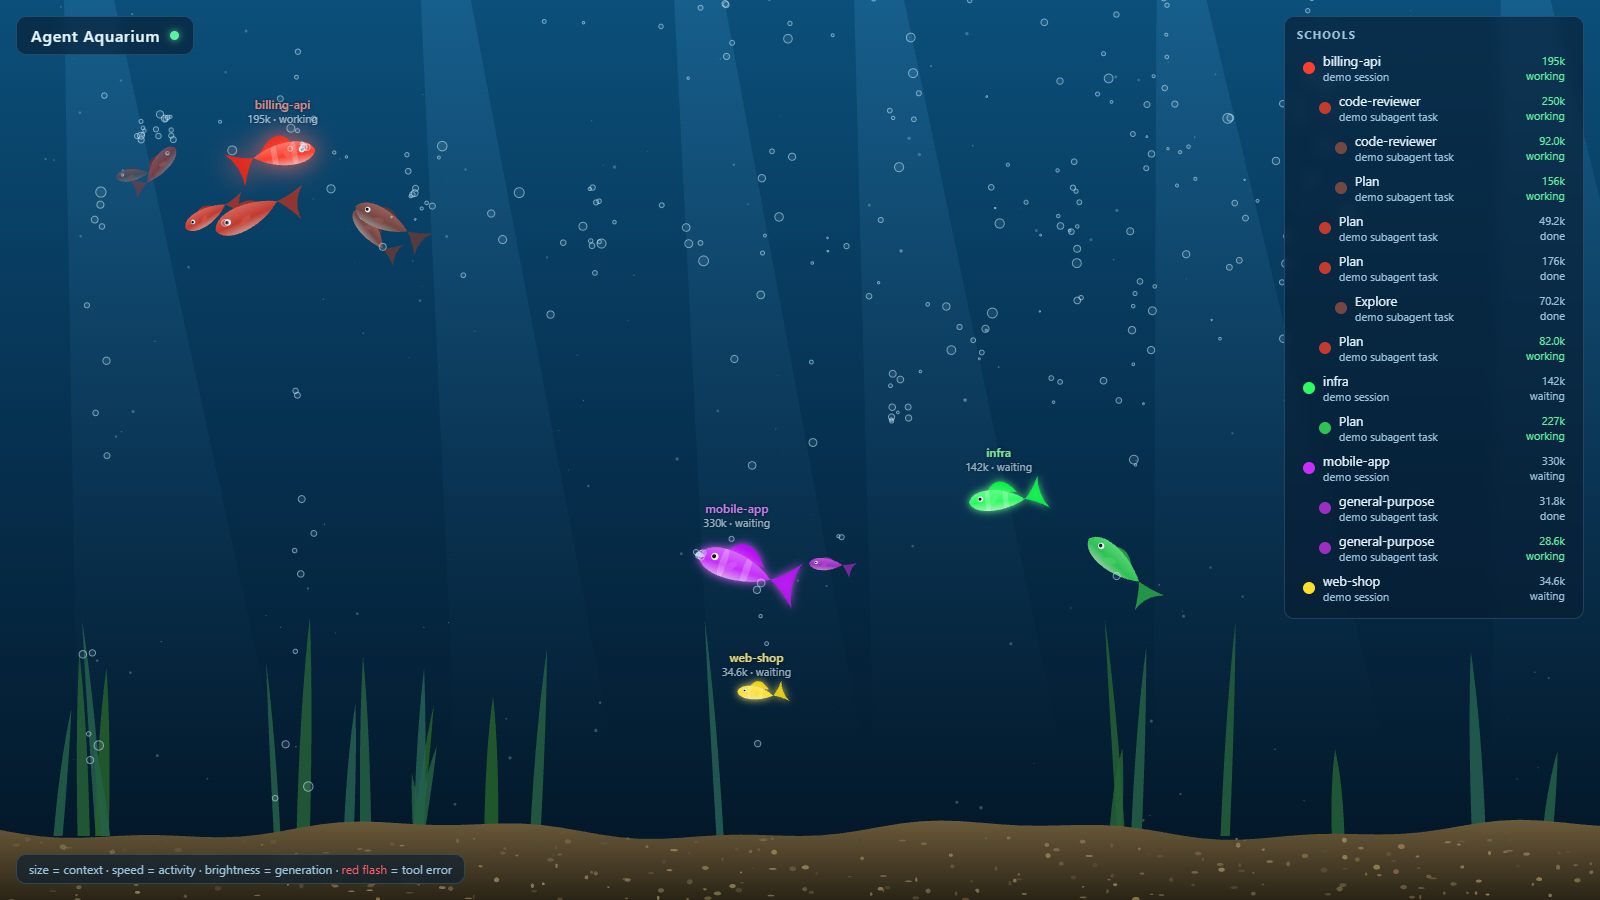
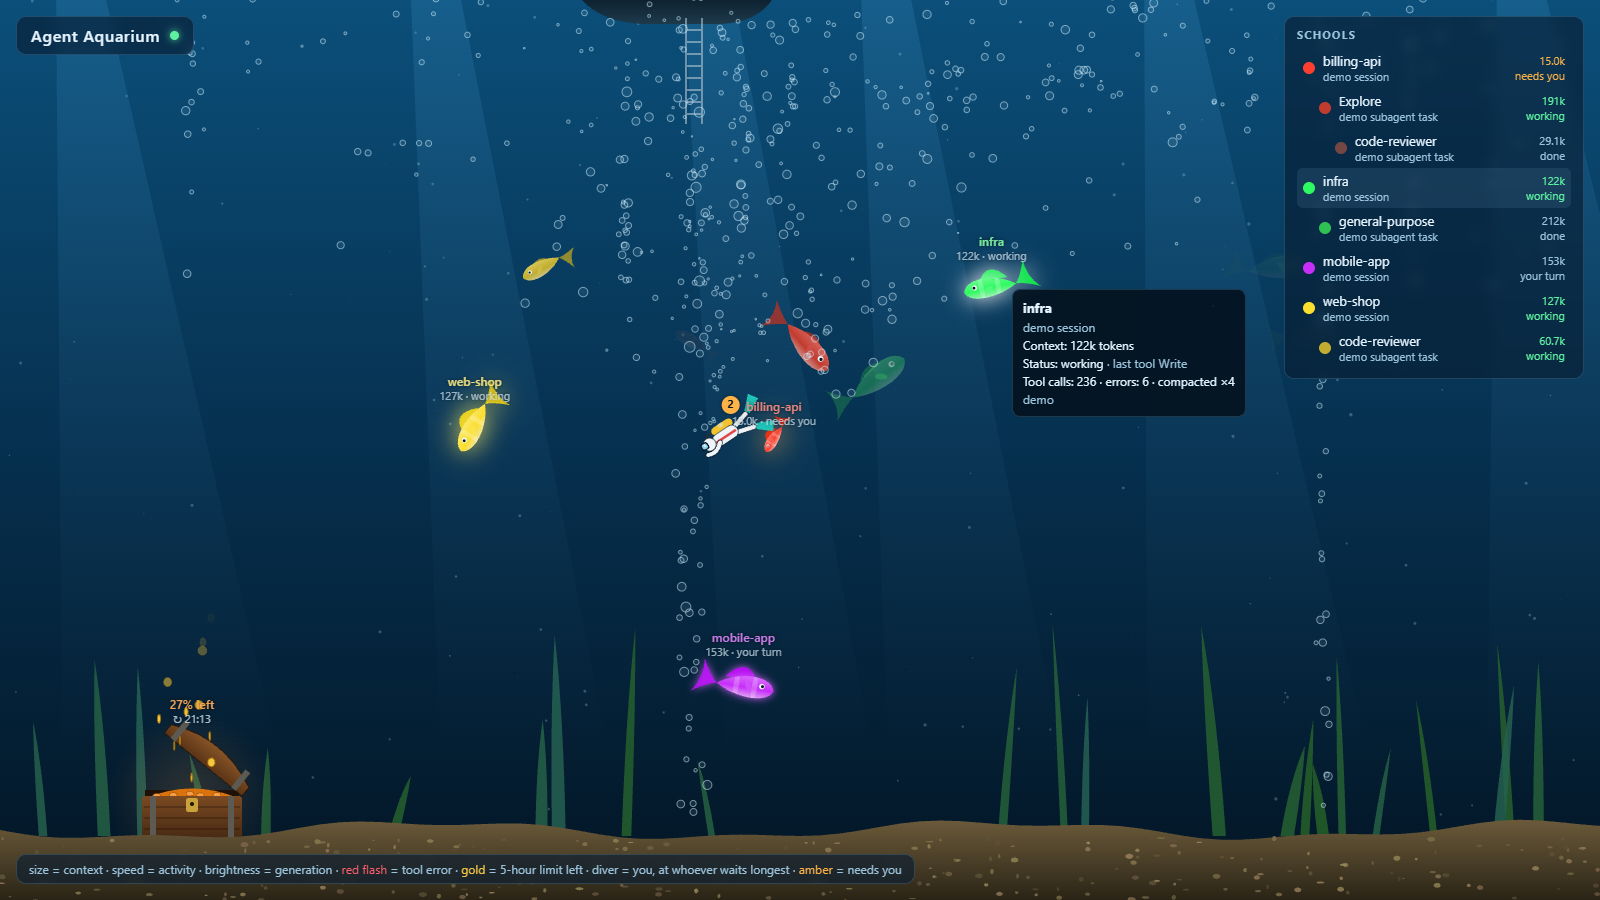
Docs: new screenshot and demo GIF, README caught up with the code
The README now covers hovering (tooltip, Schools row and fish lighting each
other up), the missing settings and their defaults, the endpoints, the
live-session registry and plugin hook in the diagram, and the classes the
architecture section left out. The empty-tank hint no longer speaks of
transcripts, and the LookBack comment says it is a fallback.

diff --git a/src/AgentAquarium/wwwroot/index.html b/src/AgentAquarium/wwwroot/index.html
@@ -33,8 +33,7 @@
     <div id="empty" class="empty" hidden>
       <p>The tank is empty.</p>
       <p class="hint">
-        No Claude Code session has written a transcript recently.<br />Start one, or run with the
-        <code>demo</code> launch profile.
+        No running Claude Code session found.<br />Start one, or run with the <code>demo</code> launch profile.
       </p>
     </div>
 

diff --git a/src/AgentAquarium/Sources/ClaudeCode/ClaudeCodeSource.cs b/src/AgentAquarium/Sources/ClaudeCode/ClaudeCodeSource.cs
@@ -13,7 +13,10 @@ public sealed class ClaudeCodeOptions
 
     public TimeSpan PollInterval { get; set; } = TimeSpan.FromSeconds(1);
 
-    /// <summary>Only sessions written to within this window are picked up.</summary>
+    /// <summary>
+    /// Fallback when the live-session registry is missing (older Claude Code): sessions whose
+    /// transcript changed within this window are shown instead.
+    /// </summary>
     public TimeSpan LookBack { get; set; } = TimeSpan.FromMinutes(30);
 
     /// <summary>

diff --git a/README.md b/README.md
@@ -2,7 +2,7 @@
 
 A live aquarium of your AI coding agents. Each session is a school of fish: the parent leads, its subagents swim with it.
 
-![Four demo sessions: the red school shows a parent with its subagents and their own, duller subagents](docs/screenshot.png)
+![The demo tank: fish swimming, the diver waiting at the session that needs you, and a hovered fish with its tooltip and highlighted row](docs/demo.gif)
 
 | Signal | Fish |
 |---|---|
@@ -19,11 +19,15 @@ The treasure chest on the sand is your plan's **5-hour limit**: the gold is what
 
 The diver is **you**. It swims to whichever agent has waited on you longest, agents blocked mid-turn before ones that merely finished, and climbs back up the boat's ladder when nobody waits. The badge over its head counts who is waiting, amber when one of them is blocked; hover it for the list with how long each has waited. "Blocked" comes from Claude Code's live-session registry (`status: "waiting"`, interactive CLI only) and, for SDK hosts such as T3 Code, from an `AskUserQuestion` or `ExitPlanMode` still unanswered in the transcript. A permission prompt in an SDK host leaves no trace in either: install the plugin below to see those too. Without it, such a session shows as working until it stalls.
 
+Hover a fish for its context, status, last tool, tool calls, errors and compactions. The **Schools** list on the right mirrors the tank: hovering a row lights up its fish, and hovering a fish lights up its row.
+
+![Demo sessions: the diver at billing-api, which needs you, the chest at 27% left, and the hovered infra fish with its tooltip and highlighted row](docs/screenshot.png)
+
 ## Run
 
 ```bash
 dotnet run --project src/AgentAquarium --launch-profile live   # your real Claude Code sessions
-dotnet run --project src/AgentAquarium --launch-profile demo   # synthetic agents, for working on the visuals
+dotnet run --project src/AgentAquarium --launch-profile demo   # synthetic agents and usage, for working on the visuals
 ```
 
 Open http://localhost:5180.
@@ -47,7 +51,9 @@ Settings are in `src/AgentAquarium/appsettings.json`:
 - `Sources:ClaudeCode:ProjectRoots`: transcript folders. The default is `~/.claude/projects`. Add another profile's `projects` folder to watch it too.
 - `Sources:ClaudeCode:LookBack`: fallback only. A session is shown while its process runs, according to Claude Code's live-session registry (`<config>/sessions/<pid>.json`, checked against the process start time because pids get reused). If that registry is missing (older Claude Code), sessions whose transcript changed within this window are shown instead.
 - `Sources:ClaudeCode:UsageFile`: where the chest's numbers come from, Claude Code's own cache of its `/usage` call (`cachedUsageUtilization`). Default `~/.claude.json`; a profile with its own `CLAUDE_CONFIG_DIR` keeps it at `<dir>/.claude.json`. Empty string, or `Sources:ClaudeCode:Enabled=false`, turns the chest off: it only appears once a 5-hour window has been reported. One file is read even when `ProjectRoots` lists several profiles. `UsagePollInterval` (default 10 s) is how often its timestamp is checked; it is only parsed when it changed. The aquarium never calls the usage API itself: that endpoint is rate limited hard and shares its budget with Claude Code, so the numbers are only as fresh as Claude Code's last fetch (roughly every 20 minutes while it runs). Undocumented, checked against Claude Code 2.1.300.
-- `Tank:StallAfter` / `ForgetAfter` / `DoneLinger`: when silent agents turn idle, leave, and when finished subagents leave.
+- `Sources:ClaudeCode:PollInterval` (default 1 s): how often transcripts and the live-session registry are read.
+- `Tank:StallAfter` / `ForgetAfter` / `DoneLinger` (defaults 5 min, 30 min, 20 s): when silent agents turn idle, leave (subagents, and sessions when the live-session registry is missing), and when finished subagents leave. `Tank:ActivityWindow` (60 s) is how far back events count towards swim speed.
+- `Sources:Demo:Sessions` (default 3): how many sessions the `demo` profile starts with.
 
 ## Development
 
@@ -62,6 +68,8 @@ npm run format                       # Prettier; dotnet format for C#
 ```mermaid
 flowchart LR
   T[Claude Code transcripts<br/>~/.claude/projects/**.jsonl] --> CC[ClaudeCodeSource<br/>polls + tails]
+  L[live-session registry<br/>~/.claude/sessions/*.json] --> CC
+  H[plugin PermissionRequest hook] -->|POST /api/hooks/permission-request| PR[PermissionRequests] --> CC
   D[DemoSource] --> S
   CC --> S[IAgentSink<br/>AgentRegistry]
   U[~/.claude.json<br/>cachedUsageUtilization] --> CU[ClaudeUsageSource] --> UB[IUsageSink<br/>UsageBoard]
@@ -70,13 +78,14 @@ flowchart LR
 ```
 
 - **`Domain/AgentModel.cs`** is the seam. Sources only speak `AgentDescriptor` (identity, parent, depth) and `AgentObservation` (context, tool call, error, compaction, status). Nothing downstream knows about Claude Code.
-- **`Sources/ClaudeCode`** reads `<session>.jsonl` for the main agent and `<session>/subagents/agent-<id>.jsonl` plus `.meta.json` for subagents. A subagent's parent is the agent whose transcript contains the spawning `tool_use` id, so nesting deeper than one level works without special cases. Context = `input + cache_read + cache_creation + output` tokens of the latest assistant message. The transcript format is undocumented (checked against Claude Code 2.1.300), so the parser ignores whatever it does not recognise.
-- **`Tank/AgentRegistry`** holds state, derives activity and staleness, and prunes.
-- **`wwwroot/js`** is plain ES modules on Canvas 2D, with no build step. `fish.js` handles steering and drawing, `scenery.js` the water, `chest.js` the treasure chest, `diver.js` the diver, `colors.js` the session hue × generation tone.
+- **`Sources/ClaudeCode`**: `ClaudeCodeSource` reads `<session>.jsonl` for the main agent and `<session>/subagents/agent-<id>.jsonl` plus `.meta.json` for subagents. A subagent's parent is the agent whose transcript contains the spawning `tool_use` id, so nesting deeper than one level works without special cases. Context = `input + cache_read + cache_creation + output` tokens of the latest assistant message. The transcript format is undocumented (checked against Claude Code 2.1.300), so the parser ignores whatever it does not recognise. `LiveSessions` reads the registry that says which sessions still run and whether they wait on you; `PermissionRequests` hands the plugin's posts over to the source, which matches each to an open tool call (see the `plugin-hooks` skill). `ClaudeUsageSource` reads the chest's numbers.
+- **`Tank/AgentRegistry`** holds state, derives activity and staleness, and prunes. **`Tank/UsageBoard`** holds the latest usage report; an older one never replaces a newer one.
+- **Endpoints**: `/api/agents/stream` (SSE: `snapshot` every 500 ms, `usage` on connect and on change), `/api/agents` and `/api/usage` (one-off JSON, `204` before any usage is known), and `POST /api/hooks/permission-request` for the plugin.
+- **`wwwroot/js`** is plain ES modules on Canvas 2D, with no build step. Static files are served `Cache-Control: no-cache`, so a reload always picks up a changed module. `main.js` runs the loop, the Schools list and the tooltips, `fish.js` handles steering and drawing, `scenery.js` the water, `chest.js` the treasure chest, `diver.js` the diver, `colors.js` the session hue × generation tone. The page is installable through `manifest.webmanifest` and `icons/`.
 
 ### Adding a source
 
-Implement a `BackgroundService` that calls `IAgentSink.Upsert` / `Observe` / `Remove`, and register it in `Program.cs`. `DemoSource` is the minimal example. Use `Source` on the descriptor to say where an agent came from. For a push-based source (hooks, OpenTelemetry, another tool's webhook), add an endpoint that maps the payload onto the same sink calls.
+Implement a `BackgroundService` that calls `IAgentSink.Upsert` / `Observe` / `Remove`, and register it in `Program.cs`. `DemoSource` is the minimal example. Use `Source` on the descriptor to say where an agent came from. For a push-based source (hooks, OpenTelemetry, another tool's webhook), add an endpoint that maps the payload onto the same sink calls. A source that knows plan usage reports it to `IUsageSink`.
 
 ## License
 
